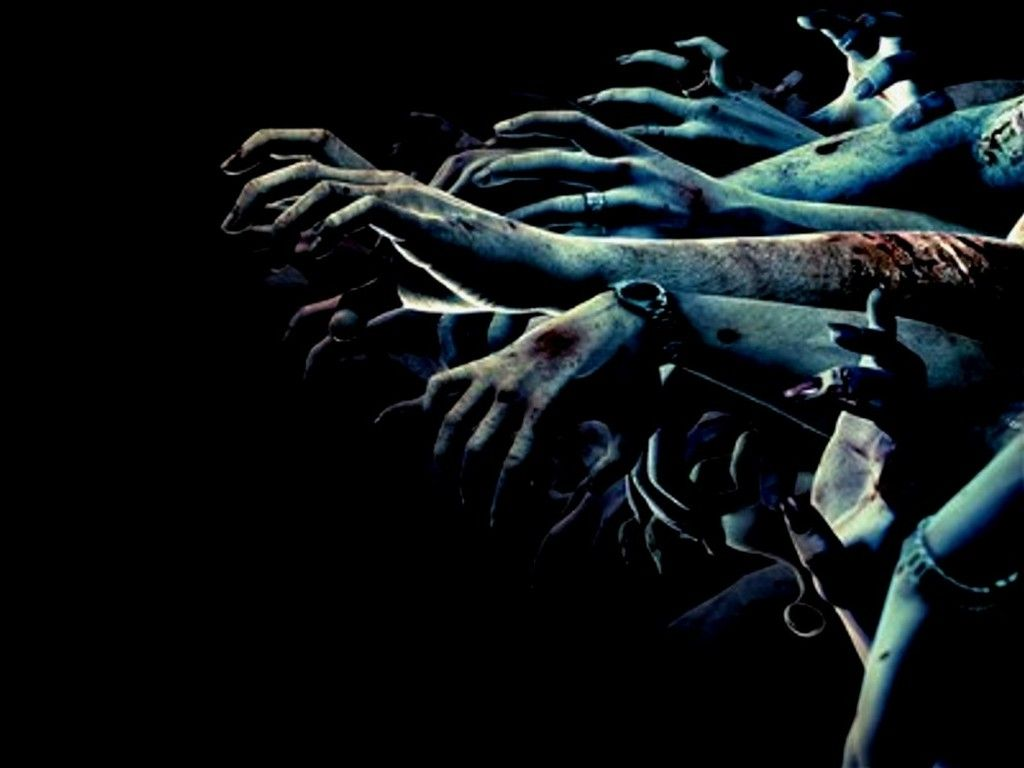
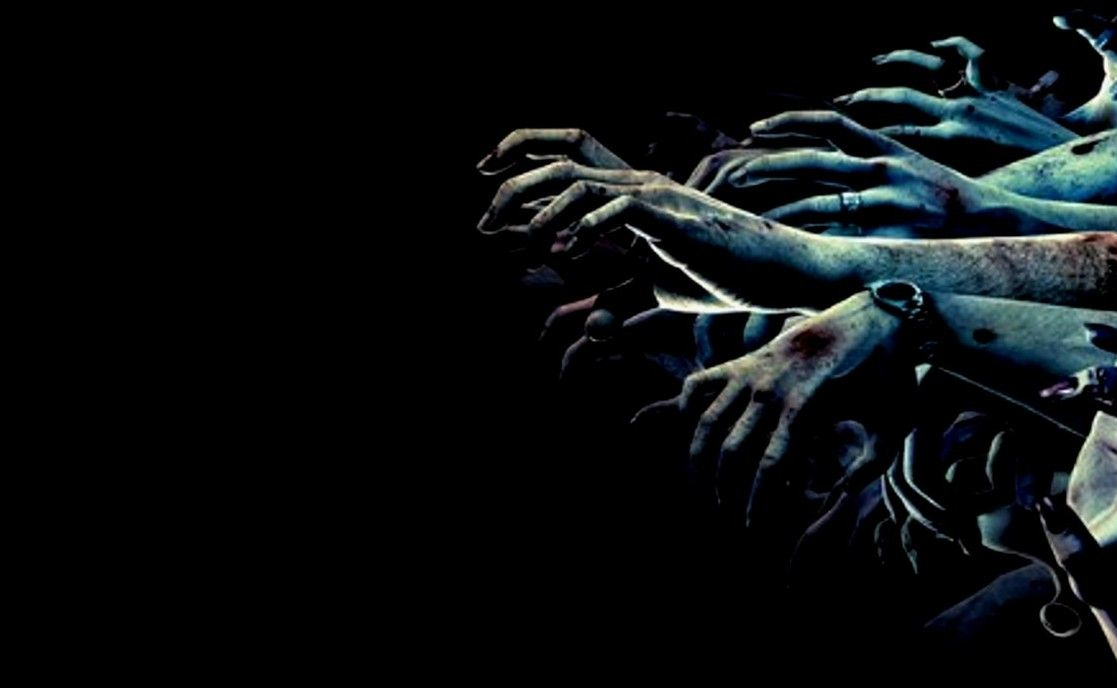
hgfd

diff --git a/zombie.html b/zombie.html
@@ -14,15 +14,13 @@
 
 </head>
 <body>
-<section id="section1">
-	<img src="zombies.jpg" id="naute" />
-		<div class="titre" id=""><span class="smallcaps">Zombies à Aubeterre</span></div>
-</section>
 <section id="body_section" class="">
+	<div class="titre" id=""><span class="smallcaps">Zombies à Aubeterre</span></div>
 	<p>On nous signale une étrange maladie infectieuse au bord de la Dronne. Elle se répandrait par contact direct, à une vitesse fulgurante. Pire que mortelle, elle semble transformer ceux qui en sont victimes en créatures agressives, immortelles et malodorantes. Les habitants parlent de zombies...
 	</p>
-	<h2><em>TL;DR</em> : Ramenez un brassard/bandana et au moins 3 projectiles type boules de chaussettes/nerf qui ne font pas mal aux gens, et visez les zombies ! <em>Game on</em> dès vendredi soir !</h2>
-	<p>Bien sûr, il serait plus prudent d'éviter Aubeterre jusqu'à ce que le gouvernement et les services sanitaires ne diffusent davantage d'informations. Mais une bonne semaine de fanfare valant bien le risque de mourir ou de se transformer en une horrible créature, il est évident que certain&middot;e&middot;s préféreront prendre le risque de se frotter à cette terrible infection. Voici nos recommendations à ces intrépides. Ne paniquez pas, prenez-le comme un jeu, dont ce qui suit serait les règles.</p>
+
+	<p>Bien sûr, il serait plus prudent d'éviter Aubeterre jusqu'à ce que le gouvernement et les services de santé ne diffusent davantage d'informations. Mais une bonne semaine de fanfare valant bien le risque de mourir ou de se transformer en horrible créature, il est évident que certain&middot;e&middot;s préféreront prendre le risque de se frotter à cette terrible infection. Voici nos recommendations à ces intrépides. Ne paniquez pas, prenez-le comme un jeu, dont ce qui suit serait les règles.</p>
+		<h3>En bref : ramenez un brassard/bandana et au moins 3 projectiles type boules de chaussettes/nerf qui ne font pas mal aux gens, et visez les zombies ! <em>Game on</em> dès vendredi soir !</h3>
 	<h2>Bandana beau gosse</h2>
 	<p><span class="bold">Les zombies sont reconnaissables au bandana qu'ils portent autour de la tête</span>, comme des businessmen bourrés leur cravate à Nouvel An. Par opposition, <span class="bold">les humains non infectés portent un brassard autour du bras</span>. Le distingo est donc facile à opérer ; toute personne sans brassard ni bandana n'existe simplement pas à nos yeux. </p>
 	<h2>Transmission</h2>
@@ -32,16 +30,16 @@
 	<p>Les zombies ainsi touchés sont <span class="bold">désactivés pour une heure</span>. Ils ne peuvent remettre leur bandana et redevenir agressifs et contagieux que passé ce délai. Ils ne sont pas obligés de remettre leur bandana à l'instant de leur retour à la non-vie. Ils peuvent attendre le moment opportun...</p>
 	<h2><em>One quiet night</em></h2>
 	<p>Les zombies sont <span class="bold">inactifs de 10h du soir à 10h du matin</span>. Cette souche virale semble nous donner un peu de repos, c'est une chance. Espérons qu'elle ne mute pas... </p>
-	<p>Les énergies telluriques rendent les zombies inactifs dans certains lieux : les <span class="bold">chambres à coucher</span> et similaires lieux de dodo, les <span class="bold">toilettes et salles de bains</span> quels qu'ils soient, et les lieux dans lesquels courir dans tous les sens est dangereux, donc notamment la <span class="bold">cuisine</span>.</p>
-	<p>Enfin les zombies semblent aussi affectés par la musique et sont <span class="bold">inactifs pendant les répés, manches et contrats</span>. Si un flûtiste s'égard tout seul dans la forêt, là par contre, bon chance à lui...</p>  
+	<p>Les énergies telluriques rendent les zombies inactifs dans certains lieux : les <span class="bold">chambres à coucher</span> et similaires lieux de dodo, les <span class="bold">toilettes et salles de bains</span>, et les lieux dans lesquels courir dans tous les sens est dangereux, donc notamment la <span class="bold">cuisine</span>.</p>
+	<p>Enfin les zombies semblent aussi affectés par la musique et sont <span class="bold">inactifs pendant les répés, manches et contrats</span>. Si un flûtiste s'égard tout seul dans la forêt, là par contre, bon chance à lui...</p>
 	<h2>Gagner la guerre</h2>
 	<p>J'ai bien peur que le mieux qui puisse être envisagé par les humains est de minimiser les pertes. Restez sur vos gardes et essayez de vous enfuir avant qu'il ne soit trop tard... <span class="bold">Qui survit gagne, qui meurt perd.</span></p>
 	<h2>Mort de trouille ?</h2>
 	<p>Si vous voulez faire l'autruche et ignorer l'épidémie, rien de plus simple : ne portez pas de brassard. Mais à tenter de passer à côté de la mort, on passe à côté de la vie. Alors n'aie pas peur, enfile un brassard et tout ira b... AAAH DERRIÈRE TOI !!! &#128561; </p>
 
 </section>
-<footer id="footer">
-	Martin&#x1F3B7;	&#x1F6B2;
+<footer id="footer" class="smallcaps">
+	Martin for P2LR - Monarchou 2024
 </footer>
 <script src="js/jquery.js"></script>
 </body>

diff --git a/css/zombie.css b/css/zombie.css
@@ -1,6 +1,6 @@
 :root {
-  --teal: #E5C713;
-  --light-teal: #468DaC;
+  --jaune: #E5C713;
+  --jaune-sombre: #99850d;
   --grey: #eee;
   --dark-grey: #ccc;
   --marge: 100px;
@@ -21,9 +21,12 @@ html {
 body {
   font-family: 'Lato', sans-serif;
   color: white;
-  font-size: 20px;
   line-height: 1.6;
-  background: black;
+  background-image: url("../zombies.jpg");
+  background-size: 100% auto;
+    background-repeat: no-repeat;
+      background-position: right top;
+    background-color: black;
   padding: 0;
   margin: 0;
 }
@@ -33,7 +36,7 @@ section {
 }
 
 #body_section {
-  max-width: 800px;
+  margin: 0 10% 6px 10%;
 }
 
 section:last-of-type {
@@ -43,45 +46,46 @@ section:last-of-type {
 h2 {
   font-family: 'Creepster';
   font-variant: small-caps;
-  text-align: left;
-  margin: 20px 10% 20px 10%;
+  font-size: 1.6em;
+  margin: 40px 0 10px 0;
+  max-width: 800px;
 }
 
+h3 {
+  font-family: 'Creepster';
+  font-variant: small-caps;
+  font-weight: 300;
+  font-size: 1.3em;
+  margin: 40px 0;
+  max-width: 720px;
+  padding: 40px;
+  color:black;
+  background: var(--jaune);
+}
+
+
 p {
+  max-width: 800px;
   font-family: 'Ubuntu';
-  margin: 0 10% 6px 10%;
 }
 
 .bold {
   font-weight: 700;
-  color: var(--teal);
+  color: var(--jaune);
 }
 
 a {
-  color: var(--teal);
+  color: var(--jaune);
 }
 
-#naute {
-  bottom: 0;
-  right: 0;
-  margin: 0;
-  padding: 0;
-  max-height: 100vh;
-  width: auto;
-}
-
-#section1 {
-  text-align: right;
-  padding: 0;
-  margin: 0;
-}
-
-#section1 .titre {
+.titre {
   text-align: left;
   margin: 60px 0;
   font-weight: bold;
-  font-size: 6em;
+  font-size: 4em;
   font-family: 'Creepster';
+  line-height: 1em;
+  text-shadow: 6px 6px 5px var(--jaune);
 }
 
 .smallcaps {
@@ -101,7 +105,7 @@ a {
 }
 
 footer {
-  background: var(--teal);
+  background: var(--jaune);
   margin-top: 40px;
   padding: 20px 10% 20px 10%;
   font-family: "Creepster";
